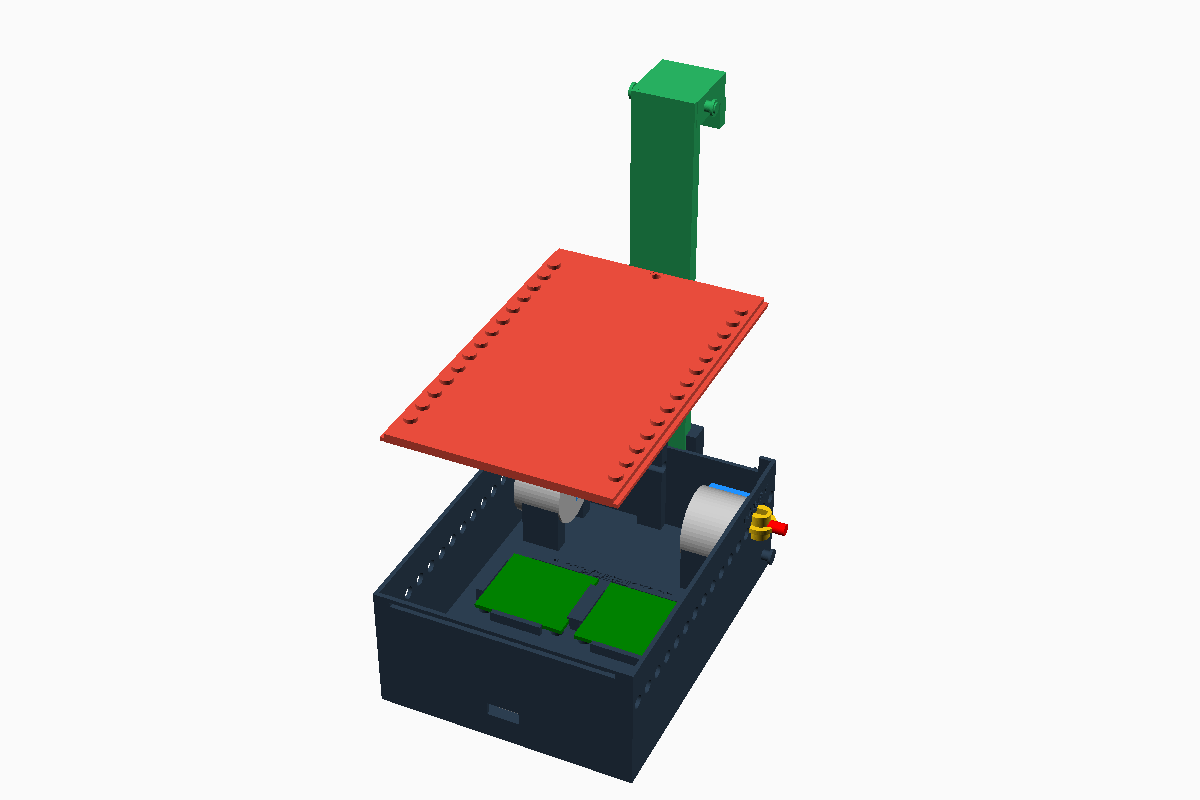
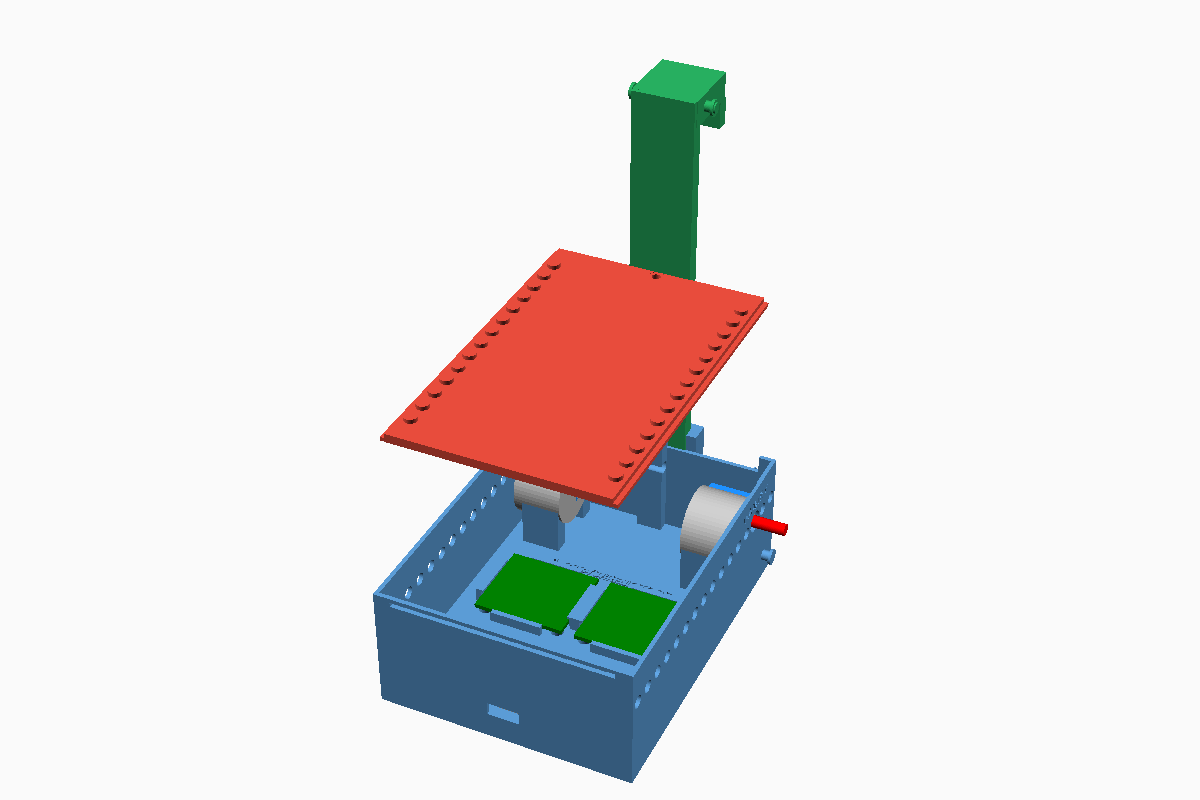
feat(viewer/cad): brighter base, captive inlaid couplers, electronics in viewer
- Base color brightened (#2c3e50 -> #5b9bd5) in base.scad, showcase, viewer.
- Couplers placed captive/inlaid at the wall (x=+-41.2): the wide flange is
  trapped inside the wall (flange groove) and only the axle socket shows
  outside, like a normal Technic hole. Reverted the earlier outer counterbore
  (wrong side) and the outside-the-wall viewer placement.
- Viewer: added non-printed internals for realism -- grey 28BYJ-48 motors and
  purple ULN2003 + ESP32-S2 boards, exploding down with the base.
- Viewer: phone clamp explodes well clear of the lid (no intersection).

Changed region(s): [[0.3083, 0.5312, 0.6475, 0.9688]]

diff --git a/website/viewer.js b/website/viewer.js
@@ -34,10 +34,13 @@ dirLight.position.set(100, 200, 100);
 scene.add(dirLight);
 
 // Materials using exact hex colors
-const matBase = new THREE.MeshStandardMaterial({ color: 0x2c3e50, roughness: 0.6, metalness: 0.1 });
+const matBase = new THREE.MeshStandardMaterial({ color: 0x5b9bd5, roughness: 0.6, metalness: 0.1 });
 const matLid = new THREE.MeshStandardMaterial({ color: 0xe74c3c, roughness: 0.6, metalness: 0.1 });
 const matClamp = new THREE.MeshStandardMaterial({ color: 0x27ae60, roughness: 0.6, metalness: 0.1 });
 const matCoupler = new THREE.MeshStandardMaterial({ color: 0xf1c40f, roughness: 0.6, metalness: 0.1 });
+// Non-printed components shown for realism
+const matMotor = new THREE.MeshStandardMaterial({ color: 0x9aa0a6, roughness: 0.4, metalness: 0.5 });
+const matBoard = new THREE.MeshStandardMaterial({ color: 0x8e44ad, roughness: 0.6, metalness: 0.1 });
 
 const parts = {};
 let isExploded = false;
@@ -131,26 +134,56 @@ loadPart('https://raw.githubusercontent.com/sloev/robo/master/vehicle_lid.stl', 
 
 // 3. Phone clamp is naturally generated fully assembled! (Z=65 to 130).
 loadPart('https://raw.githubusercontent.com/sloev/robo/master/vehicle_phone_clamp.stl', matClamp, 
-    [0, 0, 0],   // Assembled (Already in place)
-    [0, 50, 50], // Exploded (lifted and moved forward)
+    [0, 0, 0],     // Assembled (Already in place)
+    [0, 60, -150], // Exploded (lifted and pushed well clear of the lid, out the front)
     'clamp'
 );
 
 // 4. Couplers. We load the same model twice (left and right).
 // Left coupler: D-socket faces +X (towards motor). The model's default orientation points D-socket to +X.
 loadPart('https://raw.githubusercontent.com/sloev/robo/master/vehicle_couplers.stl', matCoupler, 
-    [-50, 33.6, -44],   // Assembled (on the shaft, just outside the left wall)
-    [-85, 33.6, -44],   // Exploded
+    [-41.2, 33.6, -44], // Assembled (captive in the left wall: flange trapped inside, axle socket out)
+    [-90, 33.6, -44],   // Exploded
     'couplerLeft'
 );
 
 // Right coupler: D-socket must face -X. So we rotate it 180 degrees around Y!
 loadPart('https://raw.githubusercontent.com/sloev/robo/master/vehicle_couplers.stl', matCoupler, 
-    [50, 33.6, -44],    // Assembled (on the shaft, just outside the right wall)
-    [85, 33.6, -44],    // Exploded
+    [41.2, 33.6, -44],  // Assembled (captive in the right wall: flange trapped inside, axle socket out)
+    [90, 33.6, -44],    // Exploded
     'couplerRight',
     [0, Math.PI, 0]     // Assembled Rotation (will be applied to wrapper)
 );
+
+// --- Non-printed internals for realism (grey motors, purple boards) ---
+// Placed using OpenSCAD coordinates [x, y, z] (same convention as the base,
+// which is generated at the origin). OpenSCAD space maps to Three.js as
+// [x, z, -y]. They explode straight down with the base so the "guts" stay
+// nested inside the chassis as the lid lifts off.
+let internalCount = 0;
+function addInternal(geometry, material, oscadPos, rot) {
+    const mesh = new THREE.Mesh(geometry, material);
+    if (rot) mesh.rotation.set(...rot);
+    const assembled = new THREE.Vector3(oscadPos[0], oscadPos[2], -oscadPos[1]);
+    const exploded = assembled.clone().add(new THREE.Vector3(0, -50, 0));
+    scene.add(mesh);
+    parts['internal_' + (internalCount++)] = {
+        mesh: mesh,
+        assembledPos: assembled,
+        explodedPos: exploded,
+        targetPos: assembled.clone()
+    };
+    mesh.position.copy(assembled);
+}
+
+// Two 28BYJ-48 stepper motors (Ø28 x 19mm), axis along X, cradled at the rear.
+for (const sx of [-29.5, 29.5])
+    addInternal(new THREE.CylinderGeometry(14, 14, 19, 32), matMotor, [sx, 44, 25.6], [0, 0, Math.PI / 2]);
+// Two ULN2003 driver boards (35 x 31.5mm) sitting flat on their trays.
+for (const sx of [-20, 20])
+    addInternal(new THREE.BoxGeometry(35, 1.6, 31.5), matBoard, [sx, 2, 7]);
+// ESP32-S2 Mini (34.3 x 25.4mm) friction-fit at the rear, USB-C to the back wall.
+addInternal(new THREE.BoxGeometry(25.4, 1.6, 34.3), matBoard, [0, -45, 7]);
 
 // Button logic
 document.getElementById('explode-btn').addEventListener('click', () => {